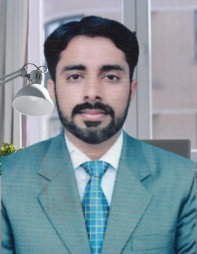
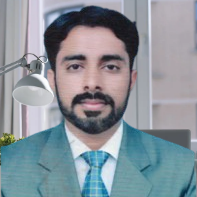
some change are set

diff --git a/src/app/team/page.tsx b/src/app/team/page.tsx
@@ -25,7 +25,7 @@ export default function TeamPage() {
       <section className="py-20 bg-white">
         <div className="max-w-7xl mx-auto px-4 sm:px-6 lg:px-8">
           <div className="text-center mb-16">
-            <h2 className="text-3xl md:text-4xl font-bold text-secondary mb-4">Our Co-Founders</h2>
+            <h2 className="text-3xl md:text-4xl font-bold text-secondary mb-4">Founders</h2>
             <p className="text-lg text-gray-600 max-w-2xl mx-auto">The visionary leaders who built ZMS IT Hub from the ground up</p>
           </div>
           <div className="grid md:grid-cols-2 gap-12 max-w-5xl mx-auto">
@@ -33,46 +33,68 @@ export default function TeamPage() {
               <div className="text-center">
                 <div className="mb-8">
                   <Image
-                    src="/images/cofounder1.jpg"
-                    alt="Muhammad Zain, Co-Founder of ZMS IT Hub"
+                    src="/images/Sohail Abbas.jpg"
+                    alt="Sohail Abbas, Co-Founder & CEO of ZMS IT Hub"
                     width={200}
                     height={200}
                     className="rounded-full mx-auto shadow-lg"
                   />
                 </div>
-                <h3 className="text-2xl font-bold text-secondary mb-2">Muhammad Zain</h3>
-                <p className="text-primary font-semibold mb-4">Co-Founder</p>
-                <p className="text-gray-600 mb-6 leading-relaxed">Full-stack developer with 8+ years of experience building scalable web applications. Passionate about clean code, user-centered design, and creating digital solutions that drive business growth.</p>
-                <p className="text-primary italic font-medium mb-6">"Building tomorrow's digital solutions today."</p>
-                <CoFounderSocials 
-                  linkedinUrl="https://linkedin.com/in/muhammadzain"
-                  email="muhammad.zain@zmsit.com"
-                  size="lg"
-                  className="justify-center"
-                />
+                <h3 className="text-2xl font-bold text-secondary mb-2">Sohail Abbas</h3>
+                <p className="text-primary font-semibold mb-4">Founder Of ZMS IT Hub & CEO & Project Manager</p>
+                <p className="text-gray-600 mb-6 leading-relaxed">As Founder & CEO of ZMS IT Hub, he leads with vision and strategy while managing projects to ensure successful outcomes. With strong leadership and project management expertise, he drives innovation and growth for clients and teams alike.</p>
+                <p className="text-primary italic font-medium mb-6">"Leadership is about inspiring others to achieve greatness."</p>
+                 <CoFounderSocials 
+                   linkedinUrl="https://linkedin.com/in/sohailabbas18"
+                   email="sohailabbas.ceo@gmail.com"
+                   size="lg"
+                   className="justify-center"
+                 />
+                 <div className="mt-4">
+                   <a 
+                     href="https://wa.me/923270651157" 
+                     className="inline-flex items-center justify-center px-4 py-2 bg-green-500 text-white rounded-lg hover:bg-green-600 transition-colors text-sm font-medium"
+                   >
+                     <svg className="w-4 h-4 mr-2" fill="currentColor" viewBox="0 0 24 24">
+                       <path d="M17.472 14.382c-.297-.149-1.758-.867-2.03-.967-.273-.099-.471-.148-.67.15-.197.297-.767.966-.94 1.164-.173.199-.347.223-.644.075-.297-.15-1.255-.463-2.39-1.475-.883-.788-1.48-1.761-1.653-2.059-.173-.297-.018-.458.13-.606.134-.133.298-.347.446-.52.149-.174.198-.298.298-.497.099-.198.05-.371-.025-.52-.075-.149-.669-1.612-.916-2.207-.242-.579-.487-.5-.669-.51-.173-.008-.371-.01-.57-.01-.198 0-.52.074-.792.372-.272.297-1.04 1.016-1.04 2.479 0 1.462 1.065 2.875 1.213 3.074.149.198 2.096 3.2 5.077 4.487.709.306 1.262.489 1.694.625.712.227 1.36.195 1.871.118.571-.085 1.758-.719 2.006-1.413.248-.694.248-1.289.173-1.413-.074-.124-.272-.198-.57-.347m-5.421 7.403h-.004a9.87 9.87 0 01-5.031-1.378l-.361-.214-3.741.982.998-3.648-.235-.374a9.86 9.86 0 01-1.51-5.26c.001-5.45 4.436-9.884 9.888-9.884 2.64 0 5.122 1.03 6.988 2.898a9.825 9.825 0 012.893 6.994c-.003 5.45-4.437 9.884-9.885 9.884m8.413-18.297A11.815 11.815 0 0012.05 0C5.495 0 .16 5.335.157 11.892c0 2.096.547 4.142 1.588 5.945L.057 24l6.305-1.654a11.882 11.882 0 005.683 1.448h.005c6.554 0 11.89-5.335 11.893-11.893A11.821 11.821 0 0020.885 3.488"/>
+                     </svg>
+                     WhatsApp: +923270651157
+                   </a>
+                 </div>
               </div>
             </div>
             <div className="bg-white rounded-2xl shadow-xl p-8 hover:shadow-2xl transition-all duration-300 transform hover:-translate-y-2">
               <div className="text-center">
                 <div className="mb-8">
                   <Image
-                    src="/images/cofounder2.jpg"
-                    alt="Sarah Ahmed, Co-Founder of ZMS IT Hub"
+                    src="/images/muhammad safdar.png"
+                    alt="Muhammad Safdar, Co-Founder of ZMS IT Hub"
                     width={200}
                     height={200}
                     className="rounded-full mx-auto shadow-lg"
                   />
                 </div>
-                <h3 className="text-2xl font-bold text-secondary mb-2">Sarah Ahmed</h3>
-                <p className="text-primary font-semibold mb-4">Co-Founder</p>
-                <p className="text-gray-600 mb-6 leading-relaxed">UI/UX designer specializing in creating intuitive digital experiences. Expert in user research, modern design systems, and transforming complex problems into elegant solutions.</p>
-                <p className="text-primary italic font-medium mb-6">"Design is not just how it looks, but how it works."</p>
-                <CoFounderSocials 
-                  linkedinUrl="https://linkedin.com/in/sarahahmed"
-                  email="sarah.ahmed@zmsit.com"
-                  size="lg"
-                  className="justify-center"
-                />
+                <h3 className="text-2xl font-bold text-secondary mb-2">Muhammad Safdar</h3>
+                <p className="text-primary font-semibold mb-4">Business Consultant & Co-Founder of ZMS IT Hub & Principal of Rise College kot Momin & Problem-Solving Expert & Mentor </p>
+                <p className="text-gray-600 mb-6 leading-relaxed">With 6+ years of freelancing and consulting experience, he combines business expertise with academic leadership as Principal of Rise College. A fast learner and mentor, known for exceptional problem-solving skills that drive growth and innovation.</p>
+                <p className="text-primary italic font-medium mb-6">"Technology should solve real-world problems."</p>
+                 <CoFounderSocials 
+                   linkedinUrl="https://linkedin.com/in/muhammadsafdar"
+                   email="muhammad.safdar@zmsit.com"
+                   size="lg"
+                   className="justify-center"
+                 />
+                 <div className="mt-4">
+                   <a 
+                     href="https://wa.me/03000677362" 
+                     className="inline-flex items-center justify-center px-4 py-2 bg-green-500 text-white rounded-lg hover:bg-green-600 transition-colors text-sm font-medium"
+                   >
+                     <svg className="w-4 h-4 mr-2" fill="currentColor" viewBox="0 0 24 24">
+                       <path d="M17.472 14.382c-.297-.149-1.758-.867-2.03-.967-.273-.099-.471-.148-.67.15-.197.297-.767.966-.94 1.164-.173.199-.347.223-.644.075-.297-.15-1.255-.463-2.39-1.475-.883-.788-1.48-1.761-1.653-2.059-.173-.297-.018-.458.13-.606.134-.133.298-.347.446-.52.149-.174.198-.298.298-.497.099-.198.05-.371-.025-.52-.075-.149-.669-1.612-.916-2.207-.242-.579-.487-.5-.669-.51-.173-.008-.371-.01-.57-.01-.198 0-.52.074-.792.372-.272.297-1.04 1.016-1.04 2.479 0 1.462 1.065 2.875 1.213 3.074.149.198 2.096 3.2 5.077 4.487.709.306 1.262.489 1.694.625.712.227 1.36.195 1.871.118.571-.085 1.758-.719 2.006-1.413.248-.694.248-1.289.173-1.413-.074-.124-.272-.198-.57-.347m-5.421 7.403h-.004a9.87 9.87 0 01-5.031-1.378l-.361-.214-3.741.982.998-3.648-.235-.374a9.86 9.86 0 01-1.51-5.26c.001-5.45 4.436-9.884 9.888-9.884 2.64 0 5.122 1.03 6.988 2.898a9.825 9.825 0 012.893 6.994c-.003 5.45-4.437 9.884-9.885 9.884m8.413-18.297A11.815 11.815 0 0012.05 0C5.495 0 .16 5.335.157 11.892c0 2.096.547 4.142 1.588 5.945L.057 24l6.305-1.654a11.882 11.882 0 005.683 1.448h.005c6.554 0 11.89-5.335 11.893-11.893A11.821 11.821 0 0020.885 3.488"/>
+                     </svg>
+                     WhatsApp: 03000677362
+                   </a>
+                 </div>
               </div>
             </div>
           </div>
@@ -80,15 +102,15 @@ export default function TeamPage() {
       </section>
 
       {/* CEO Featured Section */}
-      <section className="py-20 bg-gray-50">
+      {/* <section className="py-20 bg-gray-50">
         <div className="max-w-7xl mx-auto px-4 sm:px-6 lg:px-8">
           <div className="bg-white rounded-3xl shadow-2xl p-8 md:p-12">
             <div className="grid md:grid-cols-2 gap-12 items-center">
               <div className="text-center md:text-left">
                 <div className="mb-8">
                   <Image
-                    src="/images/ceo.jpg"
-                    alt="Ali Hassan, CEO of ZMS IT Hub"
+                    src="/images/Sohail Abbas.jpg"
+                    alt="Sohail Abbas, CEO of ZMS IT Hub"
                     width={300}
                     height={300}
                     className="rounded-full mx-auto shadow-xl"
@@ -96,30 +118,30 @@ export default function TeamPage() {
                 </div>
               </div>
               <div>
-                <h2 className="text-3xl md:text-4xl font-bold text-secondary mb-2">Ali Hassan</h2>
+                <h2 className="text-3xl md:text-4xl font-bold text-secondary mb-2">Sohail Abbas</h2>
                 <p className="text-primary font-semibold text-xl mb-6">Chief Executive Officer</p>
-                <p className="text-gray-600 mb-8 leading-relaxed text-lg">Leading ZMS IT Hub's strategic vision with 10+ years in tech leadership. Former senior developer at multinational companies, now focused on empowering Pakistani businesses through innovative technology solutions and digital transformation.</p>
-                <blockquote className="text-xl text-primary italic mb-8 font-medium">"Technology should solve real problems, not create new ones."</blockquote>
+                <p className="text-gray-600 mb-8 leading-relaxed text-lg">Serving as the Chief Executive Officer, he brings both leadership and technical expertise to ZMS IT Hub. With 3 years of experience as a Full Stack Software Developer, he delivers innovative solutions and drives organizational success.</p>
+                <blockquote className="text-xl text-primary italic mb-8 font-medium">"Leadership is about inspiring others to achieve greatness."</blockquote>
                 <div className="flex gap-8 mb-8">
                   <div className="text-center">
-                    <div className="text-3xl font-bold text-primary">10+</div>
+                    <div className="text-3xl font-bold text-primary">3+</div>
                     <div className="text-sm text-gray-600">Years Experience</div>
                   </div>
                   <div className="text-center">
-                    <div className="text-3xl font-bold text-primary">100+</div>
+                    <div className="text-3xl font-bold text-primary">20+</div>
                     <div className="text-sm text-gray-600">Projects Delivered</div>
                   </div>
                 </div>
                 <CoFounderSocials 
-                  linkedinUrl="https://linkedin.com/in/alihassan"
-                  email="ali.hassan@zmsit.com"
+                  linkedinUrl="https://www.linkedin.com/in/sohailabbas18/"
+                  email="sohailabbas.ceo@gmail.com"
                   size="lg"
                 />
               </div>
             </div>
           </div>
         </div>
-      </section>
+      </section> */}
 
       {/* Team Grid */}
       <section className="py-20 bg-white">
@@ -128,24 +150,21 @@ export default function TeamPage() {
             <h2 className="text-3xl md:text-4xl font-bold text-secondary mb-4">Our Expert Team</h2>
             <p className="text-lg text-gray-600 max-w-2xl mx-auto">Talented professionals who bring your digital visions to life</p>
           </div>
-          <div className="grid md:grid-cols-2 lg:grid-cols-3 gap-8">
+          <div className="grid grid-cols-1 md:grid-cols-2 lg:grid-cols-3 gap-8">
+
+            {/* Muhammad Kamran - Sales Manager */}
             <div className="bg-white rounded-xl shadow-lg p-6 hover:shadow-xl transition-all duration-300 transform hover:-translate-y-1">
               <div className="text-center">
                 <Image
-                  src="/images/team1.jpg"
-                  alt="Fatima Khan, CTO of ZMS IT Hub"
+                  src="/images/Muhammad Kamran.png"
+                  alt="Muhammad Kamran, Sales Manager of ZMS IT Hub"
                   width={120}
                   height={120}
                   className="rounded-full mx-auto mb-4 shadow-md"
                 />
-                <h3 className="text-xl font-bold text-secondary mb-1">Fatima Khan</h3>
-                <p className="text-primary font-semibold mb-3">Chief Technology Officer</p>
-                <p className="text-gray-600 mb-4 text-sm leading-relaxed">Technical architect with expertise in cloud infrastructure and scalable systems. Leads our development methodology and ensures code quality across all projects.</p>
-                <ul className="text-xs text-gray-600 mb-4 space-y-1">
-                  <li>• Cloud Architecture</li>
-                  <li>• System Design</li>
-                  <li>• Code Quality</li>
-                </ul>
+                <h3 className="text-xl font-bold text-secondary mb-1">Muhammad Kamran</h3>
+                <p className="text-primary font-semibold mb-3">Sales Manager</p>
+                <p className="text-gray-600 mb-4 text-sm leading-relaxed">Experienced sales professional with a proven track record in building client relationships and driving business growth through strategic partnerships.</p>
                 <div className="flex justify-center gap-4 mb-3">
                   <a href="https://linkedin.com/in/placeholder" className="text-primary hover:text-primary-dark transition-colors">
                     <FiLinkedin size={18} />
@@ -154,27 +173,23 @@ export default function TeamPage() {
                     <FiMail size={18} />
                   </a>
                 </div>
-                <p className="text-xs text-gray-500 italic">"Great code is written for humans to read."</p>
+                <p className="text-xs text-gray-500 italic">"Building relationships is the key to success."</p>
               </div>
             </div>
 
+            {/* Ahmad Khan - Google Ads Expert */}
             <div className="bg-white rounded-xl shadow-lg p-6 hover:shadow-xl transition-all duration-300 transform hover:-translate-y-1">
               <div className="text-center">
                 <Image
-                  src="/images/team2.jpg"
-                  alt="Usman Malik, Lead Designer of ZMS IT Hub"
+                  src="/images/Ahmad Khan.png"
+                  alt="Ahmad Khan, Google Ads Expert of ZMS IT Hub"
                   width={120}
                   height={120}
                   className="rounded-full mx-auto mb-4 shadow-md"
                 />
-                <h3 className="text-xl font-bold text-secondary mb-1">Usman Malik</h3>
-                <p className="text-primary font-semibold mb-3">Lead Designer</p>
-                <p className="text-gray-600 mb-4 text-sm leading-relaxed">Creative director with 6+ years in digital design. Specializes in brand identity, user experience, and creating memorable digital interactions.</p>
-                <ul className="text-xs text-gray-600 mb-4 space-y-1">
-                  <li>• Brand Identity</li>
-                  <li>• User Experience</li>
-                  <li>• Digital Design</li>
-                </ul>
+                <h3 className="text-xl font-bold text-secondary mb-1">Ahmad Khan</h3>
+                <p className="text-primary font-semibold mb-3">Google Ads Expert</p>
+                <p className="text-gray-600 mb-4 text-sm leading-relaxed">Digital marketing specialist with expertise in Google Ads campaigns, PPC optimization, and conversion rate improvement strategies.</p>
                 <div className="flex justify-center gap-4 mb-3">
                   <a href="https://linkedin.com/in/placeholder" className="text-primary hover:text-primary-dark transition-colors">
                     <FiLinkedin size={18} />
@@ -183,27 +198,23 @@ export default function TeamPage() {
                     <FiMail size={18} />
                   </a>
                 </div>
-                <p className="text-xs text-gray-500 italic">"Design creates emotional connections."</p>
+                <p className="text-xs text-gray-500 italic">"Data-driven marketing delivers results."</p>
               </div>
             </div>
 
+            {/* Isma Sana - Google Ads Expert */}
             <div className="bg-white rounded-xl shadow-lg p-6 hover:shadow-xl transition-all duration-300 transform hover:-translate-y-1">
               <div className="text-center">
                 <Image
-                  src="/images/team3.jpg"
-                  alt="Ayesha Sheikh, Senior Frontend Developer of ZMS IT Hub"
+                  src="/images/Isma sana.png"
+                  alt="Isma Sana, Google Ads Expert of ZMS IT Hub"
                   width={120}
                   height={120}
                   className="rounded-full mx-auto mb-4 shadow-md"
                 />
-                <h3 className="text-xl font-bold text-secondary mb-1">Ayesha Sheikh</h3>
-                <p className="text-primary font-semibold mb-3">Senior Frontend Developer</p>
-                <p className="text-gray-600 mb-4 text-sm leading-relaxed">React and Vue.js specialist focused on creating responsive, accessible web applications. Passionate about performance optimization and modern web standards.</p>
-                <ul className="text-xs text-gray-600 mb-4 space-y-1">
-                  <li>• React & Vue.js</li>
-                  <li>• Performance Optimization</li>
-                  <li>• Web Standards</li>
-                </ul>
+                <h3 className="text-xl font-bold text-secondary mb-1">Isma Sana</h3>
+                <p className="text-primary font-semibold mb-3">Google Ads Expert</p>
+                <p className="text-gray-600 mb-4 text-sm leading-relaxed">Certified Google Ads professional focused on creating high-performing campaigns that deliver measurable ROI and business growth.</p>
                 <div className="flex justify-center gap-4 mb-3">
                   <a href="https://linkedin.com/in/placeholder" className="text-primary hover:text-primary-dark transition-colors">
                     <FiLinkedin size={18} />
@@ -212,27 +223,23 @@ export default function TeamPage() {
                     <FiMail size={18} />
                   </a>
                 </div>
-                <p className="text-xs text-gray-500 italic">"Frontend is where magic happens."</p>
+                <p className="text-xs text-gray-500 italic">"Every click counts towards success."</p>
               </div>
             </div>
 
+            {/* Frazana Ameer - Google Ads Expert */}
             <div className="bg-white rounded-xl shadow-lg p-6 hover:shadow-xl transition-all duration-300 transform hover:-translate-y-1">
               <div className="text-center">
                 <Image
-                  src="/images/team4.jpg"
-                  alt="Hassan Raza, Senior Backend Developer of ZMS IT Hub"
+                  src="/images/Frazna Ameer.png"
+                  alt="Frazana Ameer, Google Ads Expert of ZMS IT Hub"
                   width={120}
                   height={120}
                   className="rounded-full mx-auto mb-4 shadow-md"
                 />
-                <h3 className="text-xl font-bold text-secondary mb-1">Hassan Raza</h3>
-                <p className="text-primary font-semibold mb-3">Senior Backend Developer</p>
-                <p className="text-gray-600 mb-4 text-sm leading-relaxed">Database architect and API specialist with expertise in Node.js and Python. Builds robust server-side solutions that scale with business growth.</p>
-                <ul className="text-xs text-gray-600 mb-4 space-y-1">
-                  <li>• Node.js & Python</li>
-                  <li>• Database Design</li>
-                  <li>• API Development</li>
-                </ul>
+                <h3 className="text-xl font-bold text-secondary mb-1">Frazana Ameer</h3>
+                <p className="text-primary font-semibold mb-3">Google Ads Expert</p>
+                <p className="text-gray-600 mb-4 text-sm leading-relaxed">Digital advertising expert with deep knowledge of Google Ads platform, audience targeting, and campaign optimization techniques.</p>
                 <div className="flex justify-center gap-4 mb-3">
                   <a href="https://linkedin.com/in/placeholder" className="text-primary hover:text-primary-dark transition-colors">
                     <FiLinkedin size={18} />
@@ -241,56 +248,59 @@ export default function TeamPage() {
                     <FiMail size={18} />
                   </a>
                 </div>
-                <p className="text-xs text-gray-500 italic">"Backend is the foundation of everything."</p>
+                <p className="text-xs text-gray-500 italic">"Precision targeting drives conversions."</p>
               </div>
             </div>
 
+            {/* Nazmeen - Customer Support */}
             <div className="bg-white rounded-xl shadow-lg p-6 hover:shadow-xl transition-all duration-300 transform hover:-translate-y-1">
               <div className="text-center">
                 <Image
-                  src="/images/team5.jpg"
-                  alt="Zara Ali, Project Manager of ZMS IT Hub"
+                  src="/images/Nazmeen.png"
+                  alt="Nazmeen, Customer Support of ZMS IT Hub"
                   width={120}
                   height={120}
                   className="rounded-full mx-auto mb-4 shadow-md"
                 />
-                <h3 className="text-xl font-bold text-secondary mb-1">Zara Ali</h3>
-                <p className="text-primary font-semibold mb-3">Project Manager</p>
-                <p className="text-gray-600 mb-4 text-sm leading-relaxed">Agile methodology expert ensuring smooth project delivery. Coordinates between clients and development teams for optimal results.</p>
-                <ul className="text-xs text-gray-600 mb-4 space-y-1">
-                  <li>• Agile Methodology</li>
-                  <li>• Project Delivery</li>
-                  <li>• Client Coordination</li>
-                </ul>
-                <div className="flex justify-center gap-4 mb-3">
-                  <a href="https://linkedin.com/in/placeholder" className="text-primary hover:text-primary-dark transition-colors">
-                    <FiLinkedin size={18} />
-                  </a>
-                  <a href="mailto:team@zmsit.com" className="text-primary hover:text-primary-dark transition-colors">
-                    <FiMail size={18} />
-                  </a>
-                </div>
-                <p className="text-xs text-gray-500 italic">"Success is in the details."</p>
+                <h3 className="text-xl font-bold text-secondary mb-1">Nazmeen</h3>
+                <p className="text-primary font-semibold mb-3">Customer Support</p>
+                <p className="text-gray-600 mb-4 text-sm leading-relaxed">Dedicated customer support specialist committed to providing exceptional service and ensuring client satisfaction throughout their journey.</p>
+                 <div className="flex justify-center gap-4 mb-3">
+                   <a href="https://linkedin.com/in/placeholder" className="text-primary hover:text-primary-dark transition-colors">
+                     <FiLinkedin size={18} />
+                   </a>
+                   <a href="mailto:team@zmsit.com" className="text-primary hover:text-primary-dark transition-colors">
+                     <FiMail size={18} />
+                   </a>
+                 </div>
+                 <div className="mb-3">
+                   <a 
+                     href="https://wa.me/923709472900" 
+                     className="inline-flex items-center justify-center px-3 py-2 bg-green-500 text-white rounded-lg hover:bg-green-600 transition-colors text-xs font-medium"
+                   >
+                     <svg className="w-3 h-3 mr-1" fill="currentColor" viewBox="0 0 24 24">
+                       <path d="M17.472 14.382c-.297-.149-1.758-.867-2.03-.967-.273-.099-.471-.148-.67.15-.197.297-.767.966-.94 1.164-.173.199-.347.223-.644.075-.297-.15-1.255-.463-2.39-1.475-.883-.788-1.48-1.761-1.653-2.059-.173-.297-.018-.458.13-.606.134-.133.298-.347.446-.52.149-.174.198-.298.298-.497.099-.198.05-.371-.025-.52-.075-.149-.669-1.612-.916-2.207-.242-.579-.487-.5-.669-.51-.173-.008-.371-.01-.57-.01-.198 0-.52.074-.792.372-.272.297-1.04 1.016-1.04 2.479 0 1.462 1.065 2.875 1.213 3.074.149.198 2.096 3.2 5.077 4.487.709.306 1.262.489 1.694.625.712.227 1.36.195 1.871.118.571-.085 1.758-.719 2.006-1.413.248-.694.248-1.289.173-1.413-.074-.124-.272-.198-.57-.347m-5.421 7.403h-.004a9.87 9.87 0 01-5.031-1.378l-.361-.214-3.741.982.998-3.648-.235-.374a9.86 9.86 0 01-1.51-5.26c.001-5.45 4.436-9.884 9.888-9.884 2.64 0 5.122 1.03 6.988 2.898a9.825 9.825 0 012.893 6.994c-.003 5.45-4.437 9.884-9.885 9.884m8.413-18.297A11.815 11.815 0 0012.05 0C5.495 0 .16 5.335.157 11.892c0 2.096.547 4.142 1.588 5.945L.057 24l6.305-1.654a11.882 11.882 0 005.683 1.448h.005c6.554 0 11.89-5.335 11.893-11.893A11.821 11.821 0 0020.885 3.488"/>
+                     </svg>
+                     WhatsApp: +923709472900
+                   </a>
+                 </div>
+                 <p className="text-xs text-gray-500 italic">"Customer satisfaction is our priority."</p>
               </div>
             </div>
 
+            {/* Samavia Arshad - Google Ads Expert & Customer Support */}
             <div className="bg-white rounded-xl shadow-lg p-6 hover:shadow-xl transition-all duration-300 transform hover:-translate-y-1">
               <div className="text-center">
                 <Image
-                  src="/images/team6.jpg"
-                  alt="Omar Khan, QA & DevOps Engineer of ZMS IT Hub"
+                  src="/images/Samavia Arshad.jpg"
+                  alt="Samavia Arshad, Google Ads Expert & Customer Support of ZMS IT Hub"
                   width={120}
                   height={120}
                   className="rounded-full mx-auto mb-4 shadow-md"
                 />
-                <h3 className="text-xl font-bold text-secondary mb-1">Omar Khan</h3>
-                <p className="text-primary font-semibold mb-3">QA & DevOps Engineer</p>
-                <p className="text-gray-600 mb-4 text-sm leading-relaxed">Quality assurance specialist with DevOps expertise. Ensures reliable deployments and maintains high standards across all our products.</p>
-                <ul className="text-xs text-gray-600 mb-4 space-y-1">
-                  <li>• Quality Assurance</li>
-                  <li>• DevOps</li>
-                  <li>• Deployment</li>
-                </ul>
+                <h3 className="text-xl font-bold text-secondary mb-1">Samavia Arshad</h3>
+                <p className="text-primary font-semibold mb-3">Google Ads Expert & Customer Support</p>
+                <p className="text-gray-600 mb-4 text-sm leading-relaxed">Versatile professional combining digital marketing expertise with exceptional customer service skills. Specializes in Google Ads campaigns while ensuring outstanding client support.</p>
                 <div className="flex justify-center gap-4 mb-3">
                   <a href="https://linkedin.com/in/placeholder" className="text-primary hover:text-primary-dark transition-colors">
                     <FiLinkedin size={18} />
@@ -299,7 +309,7 @@ export default function TeamPage() {
                     <FiMail size={18} />
                   </a>
                 </div>
-                <p className="text-xs text-gray-500 italic">"Quality is never an accident."</p>
+                <p className="text-xs text-gray-500 italic">"Excellence in both marketing and service."</p>
               </div>
             </div>
           </div>
